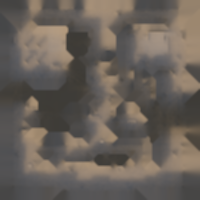
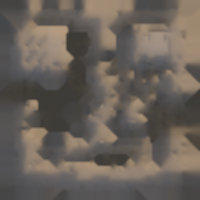
地图更有挑战性（Codex 编写，已审查）：A 点新增南侧拱廊入口和平台上的高木箱（只露头的角度），B 点新增第二条隧道和矮墙守点，中路加长视线、半掩体和通往集市的横穿通道；更新守点与进攻路线，重新烘焙光照；练枪重生不再卡住、买枪时清除手中武器的换弹/开镜状态、射线从掩体内部出发时不再穿透

diff --git a/js/map.js b/js/map.js
@@ -42,6 +42,10 @@
   R(26, 18, 27, 19, '#'); R(20, 30, 21, 32, ',');    // recessed stall court
   R(36, 27, 38, 28, 'h'); R(36, 22, 37, 26, ',');    // bazaar side passage
   R(34, 21, 37, 22, ','); R(34, 17, 35, 20, ',');
+  // A's south arcade branches off the bazaar street, between its two old approaches.
+  R(37, 17, 38, 19, '='); R(37, 20, 39, 21, ',');
+  // B's second tunnel bends around the stone pier before reaching the colonnade.
+  R(7, 20, 8, 23, 'u'); R(6, 22, 8, 23, 'u');
 
   // West market house, with a bend into the recessed mid stall court.
   R(10, 25, 14, 29, 'h'); P(9, 28, 'h');
@@ -53,6 +57,8 @@
   R(30, 28, 34, 32, ','); R(35, 29, 35, 32, ',');
   R(28, 30, 29, 30, ','); R(36, 31, 38, 31, 'h');
   R(32, 30, 33, 31, 'o'); P(34, 28, 'C'); P(35, 32, 'c');
+  // Offset crosscut from exposed mid to the bazaar side passage and north of the well.
+  R(28, 25, 32, 26, ','); R(31, 26, 35, 27, ',');
 
   // Defender overlook. The slit is shorter than a fully crouched player.
   R(17, 9, 20, 11, 'u'); R(21, 10, 22, 10, 'u');
@@ -66,14 +72,17 @@
   R(12, 8, 15, 11, '^'); R(12, 12, 15, 12, 's');
   P(6, 11, '+'); P(9, 11, '+'); P(6, 15, '+'); P(9, 15, '+');
   P(3, 9, 'c'); P(3, 10, 'C'); P(13, 16, 'C'); P(14, 16, 'c'); P(10, 18, 'c'); R(7, 13, 8, 13, 'w');
+  P(8, 17, 'w'); P(6, 19, 'C');
   // site A dressing
   R(36, 9, 41, 12, '^'); R(37, 13, 40, 13, 's'); R(35, 10, 35, 11, 's');
   R(37, 10, 40, 10, 't'); R(37, 8, 40, 9, 'L');      // dyers' drying terrace
   P(41, 8, 't'); P(42, 8, '^'); P(43, 8, 's');        // side stairs from the north arcade
   P(32, 8, 'C'); P(33, 8, 'c'); P(45, 8, 'c'); P(45, 9, 'C'); P(44, 14, 'c'); R(34, 14, 35, 14, 'w'); P(46, 16, 'p');
+  P(41, 15, 'C'); P(37, 15, 's');
+  const raisedCrate = { c: 37, r: 15 };
   // spawns, mid, streets
   P(19, 3, 'c'); P(29, 3, 'C'); P(13, 2, 'b'); P(36, 2, 'c');
-  P(26, 12, 'c'); P(23, 19, 'C'); P(27, 25, 'c'); R(23, 29, 24, 29, 'w');
+  P(26, 12, 'c'); P(23, 19, 'C'); P(27, 23, 'c'); P(25, 26, 'w'); R(23, 29, 24, 29, 'w');
   P(21, 31, 'c'); P(25, 35, 'w'); P(11, 17, 'C'); P(36, 15, 'C');
   P(17, 42, 'C'); P(32, 46, 'c'); P(20, 46, 'b'); P(29, 42, 'b'); P(16, 47, 'p'); P(33, 41, 'p');
   P(3, 27, 'b'); P(45, 36, 'b'); P(8, 40, 'b'); P(8, 27, 'c'); P(4, 38, 'C'); P(3, 46, 'p'); P(45, 46, 'p');
@@ -94,7 +103,8 @@
   M.inside = (c, r) => c >= 0 && r >= 0 && c < W && r < H;
   M.ch = (c, r) => (M.inside(c, r) ? g[r][c] : '#');
   M.windowAt = (c, r) => M.ch(c, r) === 'W' ? windows.get(r * W + c) : undefined;
-  M.walkable = (c, r) => FLOOR[M.ch(c, r)] !== undefined;
+  const hasRaisedCrate = (c, r) => c === raisedCrate.c && r === raisedCrate.r;
+  M.walkable = (c, r) => FLOOR[M.ch(c, r)] !== undefined && !hasRaisedCrate(c, r);
   M.floorH = (c, r) => FH[M.ch(c, r)] || 0;
   // what a foot lands on: the town's sand (open ground at floor level) or stone (paving, tiles, steps, crates)
   M.surfaceAt = (x, y, z) => {
@@ -141,13 +151,13 @@
   };
   const hold = (site, c, r, lc, lr) => ({ site, pos: M.cellPos(c, r), yaw: G.yawTo(M.cellX(lc) - M.cellX(c), M.cellZ(lr) - M.cellZ(r)) });
   M.holds = [
-    hold('A', 39, 8, 43, 19), hold('A', 35, 9, 34, 17), hold('A', 45, 13, 43, 19), hold('A', 44, 9, 38, 15),
-    hold('B', 10, 9, 4, 20), hold('B', 13, 14, 17, 17), hold('B', 3, 15, 4, 21), hold('B', 13, 9, 16, 18),
-    hold('M', 24, 12, 24, 22), hold('M', 17, 10, 13, 10),
+    hold('A', 39, 8, 44, 18), hold('A', 35, 9, 34, 17), hold('A', 45, 13, 44, 19), hold('A', 39, 12, 37, 18),
+    hold('B', 10, 8, 4, 20), hold('B', 13, 14, 16, 17), hold('B', 8, 16, 8, 21), hold('B', 13, 9, 16, 18),
+    hold('M', 24, 12, 25, 24), hold('M', 17, 10, 13, 10),
   ];
   M.routes = {
-    A: [cp([[42, 44], [42, 30], [43, 21]]), cp([[42, 33], [38, 27], [37, 22], [34, 18]]), cp([[28, 41], [26, 38], [30, 30], [36, 31], [43, 21]])],
-    B: [cp([[6, 44], [5, 35], [4, 27], [4, 22]]), cp([[14, 39], [24, 35], [24, 24], [19, 21], [18, 17]]), cp([[25, 36], [21, 29], [16, 28], [9, 28], [4, 22]])],
+    A: [cp([[42, 44], [42, 30], [43, 21]]), cp([[42, 33], [38, 27], [38, 21], [38, 18]]), cp([[28, 41], [26, 38], [27, 26], [32, 26], [36, 27], [37, 22], [34, 18]])],
+    B: [cp([[6, 44], [5, 35], [4, 27], [4, 22]]), cp([[14, 39], [24, 35], [24, 24], [19, 21], [18, 17]]), cp([[25, 36], [21, 29], [16, 28], [9, 28], [4, 23], [7, 22], [8, 20]])],
   };
 
   // ---------- colliders ----------
@@ -192,8 +202,9 @@
   })();
   for (let r = 0; r < H; r++) for (let c = 0; c < W; c++) {
     const ch = g[r][c], x0 = OX + c * CELL, z0 = OZ + r * CELL;
-    if ('cCkK'.includes(ch)) {
-      addBox(x0 + 0.15, 0, z0 + 0.15, x0 + 1.85, 1.05, z0 + 1.85, 'crate');
+    if ('cCkK'.includes(ch) || hasRaisedCrate(c, r)) {
+      const y = M.floorH(c, r);
+      addBox(x0 + 0.15, y, z0 + 0.15, x0 + 1.85, y + 1.05, z0 + 1.85, 'crate');
       if (ch === 'C' || ch === 'K') addBox(x0 + 0.4, 1.05, z0 + 0.3, x0 + 1.7, 2.05, z0 + 1.6, 'crate');
     } else if (ch === 'W') {
       const { sill, head, top } = M.windowAt(c, r);
@@ -263,8 +274,9 @@
 
   // ---------- ray cast against boxes and the ground (grid DDA) ----------
   const hit = { t: 0, nx: 0, ny: 0, nz: 0, box: null };
+  let crateContinuation = null;
   function rayBox(b, ox, oy, oz, dx, dy, dz, tmax) {
-    let t0 = 0, t1 = tmax, n = 0, sgn = 0;
+    let t0 = -Infinity, t1 = tmax, n = 0, sgn = 0;
     const ax = [[b.x0, b.x1, ox, dx], [b.y0, b.y1, oy, dy], [b.z0, b.z1, oz, dz]];
     for (let a = 0; a < 3; a++) {
       const [lo, hi, o, d] = ax[a];
@@ -275,11 +287,15 @@
       if (tb < t1) t1 = tb;
       if (t0 > t1) return -1;
     }
-    if (t0 <= 0) return -1;
+    if (t0 <= 0 && !(ox > b.x0 && ox < b.x1 && oy > b.y0 && oy < b.y1 && oz > b.z0 && oz < b.z1)) return -1;
     hit.nx = n === 0 ? sgn : 0; hit.ny = n === 1 ? sgn : 0; hit.nz = n === 2 ? sgn : 0;
-    return t0;
+    return Math.max(0, t0);
   }
   M.raycast = function (ox, oy, oz, dx, dy, dz, maxDist) {
+    const next = crateContinuation;
+    crateContinuation = null;
+    const pierced = next && maxDist === next.dist && dx === next.dx && dy === next.dy && dz === next.dz &&
+      ox === next.x && oy === next.y && oz === next.z ? next.box : null;
     let best = maxDist, bn = [0, 0, 0], bb = null;
     if (dy < -1e-6) { const tg = -oy / dy; if (tg > 0 && tg < best) { best = tg; bn = [0, 1, 0]; } }
     let c = M.colOf(ox), r = M.rowOf(oz);
@@ -294,8 +310,10 @@
         const bin = bins[r * W + c];
         for (let k = 0; k < bin.length; k++) {
           const i = bin[k]; if (marks[i] === stamp) continue; marks[i] = stamp;
-          const t = rayBox(M.boxes[i], ox, oy, oz, dx, dy, dz, best);
-          if (t > 0 && t < best) { best = t; bn = [hit.nx, hit.ny, hit.nz]; bb = M.boxes[i]; }
+          const b = M.boxes[i];
+          if (b === pierced) continue;
+          const t = rayBox(b, ox, oy, oz, dx, dy, dz, best);
+          if (t >= 0 && t < best) { best = t; bn = [hit.nx, hit.ny, hit.nz]; bb = b; }
         }
       } else if (tEnter > 0) break;
       const tExit = Math.min(tmx, tmz);
@@ -304,6 +322,11 @@
       if (tmx < tmz) { c += stepC; tmx += tdx; } else { r += stepR; tmz += tdz; }
     }
     if (best >= maxDist) return null;
+    // Match the immediate follow-up trace in weapons.js, which starts 1 mm past entry.
+    if (maxDist === 220 && best > 0 && bb && bb.kind === 'crate') {
+      const start = best + 0.001;
+      crateContinuation = { x: ox + dx * start, y: oy + dy * start, z: oz + dz * start, dx, dy, dz, dist: maxDist - start, box: bb };
+    }
     return { t: best, nx: bn[0], ny: bn[1], nz: bn[2], box: bb, x: ox + dx * best, y: oy + dy * best, z: oz + dz * best };
   };
   M.clearLine = function (a, b) {
@@ -416,7 +439,8 @@
     const col = { sand: '#7c6a4c', paved: '#6f6250', tiles: '#7a6a52', step: '#8a7a5c', plat: '#93825f', stair: '#ab976d', terrace: '#c4ae82' };
     for (let r = 0; r < H; r++) for (let cc = 0; cc < W; cc++) {
       const ch = g[r][cc], f = FLOOR[ch];
-      if (f) x.fillStyle = col[f];
+      if (hasRaisedCrate(cc, r)) x.fillStyle = '#4b3f2e';
+      else if (f) x.fillStyle = col[f];
       else if ('cCkKbow+pW'.includes(ch)) x.fillStyle = '#4b3f2e';
       else continue;
       x.fillRect(cc * px, r * px, px, px);

diff --git a/tests/simulation.js b/tests/simulation.js
@@ -886,6 +886,39 @@ W.update(me,.01,{fire:true}); assert(!me.primed);
 G.input.left=false; W.update(me,.01,{}); assert.equal(N.flying.length,0);
 console.log('Keyboard category/item buying, team restrictions and Esc close passed');
 
+{
+  const click = G.Audio.click, clicks = [];
+  const buyGun = id => {
+    clicks.length = 0;
+    assert(game.buy(me, id));
+    assert.equal(W.current(me).id, id);
+    assert.equal(me.switchEnd, G.time + 0.5);
+    assert.deepEqual(clicks, ['buy']);
+  };
+  try {
+    G.Audio.click = kind => clicks.push(kind);
+    me.cur = 'primary'; me.inv.primary = W.item('r90');
+    const old = W.current(me);
+    Object.assign(old, { reloading: true, zoom: 2, rezoom: G.time + 1 });
+    buyGun('h50');
+    assert.deepEqual([old.reloading, old.zoom, old.rezoom], [false, 0, 0]);
+    assert.equal(me.inv.primary, old, 'switching to a purchase keeps the holstered gun');
+    me.cur = 'primary';
+    buyGun('ar7');
+    assert(W.drops.some(d => d.item === old), 'replacing an equipped primary still drops it');
+    W.selectGrenade(me, 'flash'); G.time = me.switchEnd + .01;
+    G.input.left = true; W.update(me, .01, { fire: true });
+    assert(me.primed && dots.visible);
+    const flashes = me.nades.flash;
+    buyGun('v9');
+    assert(!me.primed && !me.pendingThrow && me.throwLatch && !dots.visible);
+    assert.equal(me.nades.flash, flashes);
+    assert.equal(N.flying.length, 0);
+  } finally {
+    G.Audio.click = click; G.input.left = false; W.clearDrops();
+  }
+}
+
 // Fire across a real wooden crate; optical targeting still stops at its surface.
 field(); ally.alive=false; me.pos.copy(cover); me.pos.x-=2;
 foe.pos.copy(cover); foe.pos.x+=2; foe.hp=1;
@@ -895,6 +928,10 @@ const killEvents=[], hudKillFx=G.HUD.killFx;
 G.HUD.killFx=info=>killEvents.push(info);
 W.update(me,.016,{fire:true});
 assert(!foe.alive && killEvents.pop().wallbang);
+me.pos.copy(cover); foe.alive=true; foe.hp=1;
+me.inv.primary=W.item('ar7');
+W.update(me,.016,{fire:true});
+assert(foe.alive && foe.hp === 1, 'a shot starting inside a crate cannot initiate penetration');
 for (const id of ['r90','s40']) for (const range of [1,25,220]) {
   field(); foe.armor=100;
   W.applyDamage(foe,me,W.defs[id],'legs',range,0,-1);
@@ -1090,13 +1127,47 @@ function mapChecks() {
   const crate = cell(12, 26), wellSide = cell(34, 31);
   assert.equal(M.raycast(crate.x, 3, crate.z, 0, 1, 0, 3).box.kind, 'roof', 'Market crate stays covered');
   assert.equal(M.raycast(wellSide.x, .8, wellSide.z, -1, 0, 0, 4).box.kind, 'wellWall');
+  const clipped = M.raycast(crate.x - .849, .65, crate.z, 1, 0, 0, 5);
+  assert(clipped.t === 0 && clipped.box.kind === 'crate', 'an ordinary ray starting 1 mm inside cover stops immediately');
+  assert(!M.clearLine(V(crate.x, .65, crate.z), V(crate.x + 4, .65, crate.z)), 'clipped eyes cannot see through a crate');
+  const wall = cell(16, 16), insideWall = M.raycast(wall.x, 1.62, wall.z, 1, 0, 0, 5);
+  assert(insideWall.t === 0 && insideWall.box.building, 'an interior hit also applies to buildings');
+
+  for (const [site, hc, hr, ec, er, cols, r0, r1] of [
+    ['A', 39, 12, 37, 18, [37, 38], 17, 19], ['B', 8, 16, 8, 21, [7, 8], 20, 22],
+  ]) {
+    for (const c of cols) for (let r = r0; r <= r1; r++) assert(M.walkable(c, r), site + ' side entrance width');
+    const hold = M.holds.find(h => h.site === site && h.pos.equals(cell(hc, hr)));
+    const entry = cell(ec, er), eyeOffset = V(0, G.eyeHeight(0), 0);
+    assert(hold && hold.yaw === G.yawTo(entry.x - hold.pos.x, entry.z - hold.pos.z));
+    assert(M.clearLine(hold.pos.clone().add(eyeOffset), entry.clone().add(eyeOffset)), site + ' hold sees its side entrance');
+    assert(M.routes[site].some(route => route.some(p => cols.includes(M.colOf(p.x)) && M.rowOf(p.z) >= r0 && M.rowOf(p.z) <= r1)),
+      site + ' attacker route uses its side entrance');
+  }
+  const lane = (c0, r0, c1, r1, height) => M.clearLine(V(M.cellX(c0), height, M.cellZ(r0)), V(M.cellX(c1), height, M.cellZ(r1)));
+  assert(lane(37, 14, 37, 17, G.eyeHeight(0)) && !lane(37, 14, 37, 17, 1.35), 'A’s raised crate exposes the head above cover');
+  assert(lane(25, 17, 25, 34, G.eyeHeight(0)) && !lane(25, 17, 25, 34, .9), 'mid has a long sightline with partial cover');
+  runRoute(cell(27, 26), [cell(32, 26), cell(36, 27), cell(38, 27)]);
+  runRoute(cell(38, 27), [cell(34, 26), cell(32, 27), cell(32, 29)]);
+
+  const views = JSON.parse(fs.readFileSync(path.join(root, 'tools', 'e2e', 'views.json'), 'utf8'));
+  const targets = { spawn: [28, 40], mid: [25, 16], siteA: [37, 18], siteB: [8, 21], bot: [24, 12] };
+  for (const v of views) {
+    const c = M.colOf(v.x), r = M.rowOf(v.z);
+    assert(M.walkable(c, r) && v.y === M.floorH(c, r), v.id + ' viewpoint floor');
+    assert(!G.Phys.blocked(v.x, v.y + .01, v.z, G.bodyHeight(0) - .01), v.id + ' viewpoint clearance');
+    const eye = V(v.x, v.y + G.eyeHeight(0), v.z), target = cell(...targets[v.id]);
+    target.y += G.eyeHeight(0);
+    assert(M.clearLine(eye, target) && G.forward(v.yaw, v.pitch).dot(target.sub(eye).normalize()) > .98, v.id + ' viewpoint aim');
+  }
 
   const createElement = document.createElement, radarColors = new Map(), radarSlits = new Set();
+  const radarSites = new Map();
   const ctx = { fillRect(x, y, w, h) {
     if (w === 5 && h === 5) radarColors.set(x + ',' + y, this.fillStyle);
     if (w === 1 && h === 5) radarSlits.add(x + ',' + y);
   },
-    strokeRect: noop, fillText: noop };
+    strokeRect: noop, fillText: (name, x) => radarSites.set(name, x) };
   try {
     document.createElement = () => ({ getContext: () => ctx });
     const radar = M.buildRadar();
@@ -1110,6 +1181,11 @@ function mapChecks() {
     for (const [c, r] of [[22, 28], [16, 10]]) {
       assert(radarSlits.has((c * 5 + 2) + ',' + r * 5), 'Window on radar at ' + [c, r]);
     }
+    for (const [c, r] of [[37, 18], [38, 18], [7, 21], [8, 21], [28, 25], [28, 26]]) {
+      assert.equal(radarColors.get(c * 5 + ',' + r * 5), '#6f6250', 'New lane on radar at ' + [c, r]);
+    }
+    assert.equal(radarColors.get('185,75'), '#4b3f2e', 'Raised crate is cover on radar');
+    assert(radarSites.get('B') < M.W * 2.5 && radarSites.get('A') > M.W * 2.5, 'Radar separates the sites west and east');
   } finally {
     document.createElement = createElement;
   }
@@ -1683,6 +1759,38 @@ function gameplayChecks() {
   G.startMatch('def', true);
   assert(game.phase === 'freeze' && game.bomb.state === 'carried' && game.canBuy(P.agent));
   elem('btnQuit').emit('click');
+
+  G.startMatch('atk', true, 'practice');
+  p = P.agent; foe = game.agents.find(a => a.team === 'def');
+  const roster = game.agents;
+  const covered = M.cellPos(27, 44);
+  try {
+    game.agents = [p, foe];
+    foe.pos.copy(M.cellPos(25, 44));
+    const fallBack = visibility => {
+      M.clearLine = visibility;
+      game.breakSpawnProtection(p);
+      hit(p, foe, 200);
+      game.update(0, p.respawnAt - game.practiceTime + 1.49);
+      assert(!p.alive, 'strict spawn search waits when every candidate fails');
+      game.update(0, .02);
+      assert(p.alive && game.spawnProtected(p), 'fallback spawns within 1.5 extra seconds and applies protection');
+      assert.equal(hit(p, foe, 200), null);
+    };
+    fallBack((a, b) => ![a, b].some(v => v.x === covered.x && v.z === covered.z));
+    assert(p.pos.equals(covered), 'fallback prefers a covered cell even within the normal 10 m exclusion');
+    fallBack(() => true);
+    const distance = G.dist2D(p.pos, foe.pos);
+    for (let r = 0; r < M.H; r++) for (let c = 0; c < M.W; c++) {
+      if (!M.walkable(c, r)) continue;
+      const q = M.cellPos(c, r);
+      if (G.Phys.blocked(q.x, q.y + .01, q.z, G.bodyHeight(0) - .01)) continue;
+      assert(G.dist2D(q, foe.pos) <= distance, 'with no cover, fallback uses the farthest available cell');
+    }
+  } finally {
+    M.clearLine = line; game.agents = roster;
+    elem('btnQuit').emit('click');
+  }
   console.log('Sound marker direction, expiry and pool; safe practice respawns, protection, loadouts and scoring; round MVP and death damage summary passed');
 }
 function ragdollChecks() {

diff --git a/js/game.js b/js/game.js
@@ -106,7 +106,7 @@
       if (!G.Phys.blocked(p.x, p.y + 0.01, p.z, G.bodyHeight(0) - 0.01)) spawnCells.push(p.clone());
     }
   }
-  function findSpawn(a) {
+  function findSpawn(a, fallback) {
     let enemies = 0;
     for (const other of Gm.agents) {
       if (!other.alive || other === a || other.team === a.team) continue;
@@ -115,7 +115,7 @@
       G.eyePos(other, spawnEyes[enemies++]);
     }
     const start = Math.floor(Math.random() * spawnCells.length);
-    let best = null, bestScore = -Infinity;
+    let best = null, bestTier = -1, bestScore = -Infinity;
     for (let i = 0; i < spawnCells.length; i++) {
       const p = spawnCells[(start + i) % spawnCells.length];
       let enemyDist = Infinity, allyDist = Infinity;
@@ -125,9 +125,11 @@
         if (other.team === a.team) allyDist = Math.min(allyDist, d);
         else enemyDist = Math.min(enemyDist, d);
       }
-      if (enemyDist < 100 || allyDist < 4) continue;
-      const score = Math.min(enemyDist, allyDist * 2.25) - Math.random() * 20;
-      if (best && score <= bestScore) continue;
+      if (!fallback && (enemyDist < 100 || allyDist < 4)) continue;
+      const score = fallback ? enemyDist : Math.min(enemyDist, allyDist * 2.25) - Math.random() * 20;
+      // Prefer room to stand, then cover, then distance from the nearest enemy.
+      let tier = fallback && Math.min(enemyDist, allyDist) >= 4 ? 2 : 0;
+      if (tier + 1 < bestTier || (tier + 1 === bestTier && score <= bestScore)) continue;
       let covered = true;
       spawnEye.set(p.x, p.y + G.eyeHeight(0), p.z);
       for (let j = 0; j < enemies && covered; j++) {
@@ -139,7 +141,11 @@
           if (M.clearLine(spawnEye, spawnPoint)) { covered = false; break; }
         }
       }
-      if (covered) { best = p; bestScore = score; if (score === Infinity) break; }
+      if (covered) tier++;
+      if ((fallback || covered) && (tier > bestTier || (tier === bestTier && score > bestScore))) {
+        best = p; bestTier = tier; bestScore = score;
+        if (score === Infinity && tier === (fallback ? 3 : 1)) break;
+      }
     }
     return best;
   }
@@ -155,8 +161,9 @@
     if (Gm.mode === 'practice') a.protectedUntil = 0;
   };
   function respawn(a) {
-    const spawn = findSpawn(a);
-    if (!spawn) { a.spawnCheckAt = Gm.practiceTime + 0.2; return; }
+    const fallbackAt = a.respawnAt + 1.5;
+    const spawn = findSpawn(a, Gm.practiceTime >= fallbackAt);
+    if (!spawn) { a.spawnCheckAt = Math.min(Gm.practiceTime + 0.2, fallbackAt); return; }
     resetLoadout(a);
     const id = [a.team === 'atk' ? 'ar7' : 'tr4', 'v9', 'r90', 'h50'][a.practiceLoadout];
     a.inv[W.defs[id].slot] = W.item(id);
@@ -535,7 +542,17 @@
     if (d.slot === 'grenade') { if (!W.addGrenade(a, id)) return false; }
     else if (W.defs[id]) {
       const slot = d.slot;
-      if (a.inv[slot]) { if (slot === 'pistol') a.inv[slot] = null; else W.drop(a, slot); }
+      const old = W.current(a);
+      if (old) { old.reloading = false; old.zoom = 0; old.rezoom = 0; }
+      if (a.cur === 'grenade') G.Nades.cancel(a);
+      if (slot !== 'pistol' && a.inv[slot]) {
+        // Drop the old gun without switching away and back during this purchase.
+        if (a.cur === slot) {
+          G.Nades.cancel(a, !!a.throwLatch);
+          a.prevSlot = slot; a.cur = 'pistol'; a.shots = 0;
+        }
+        W.drop(a, slot);
+      }
       a.inv[slot] = W.item(id);
       a.cur = slot; a.switchEnd = G.time + 0.5;
       if (a.isPlayer && G.VM) G.VM.onSwitch();
